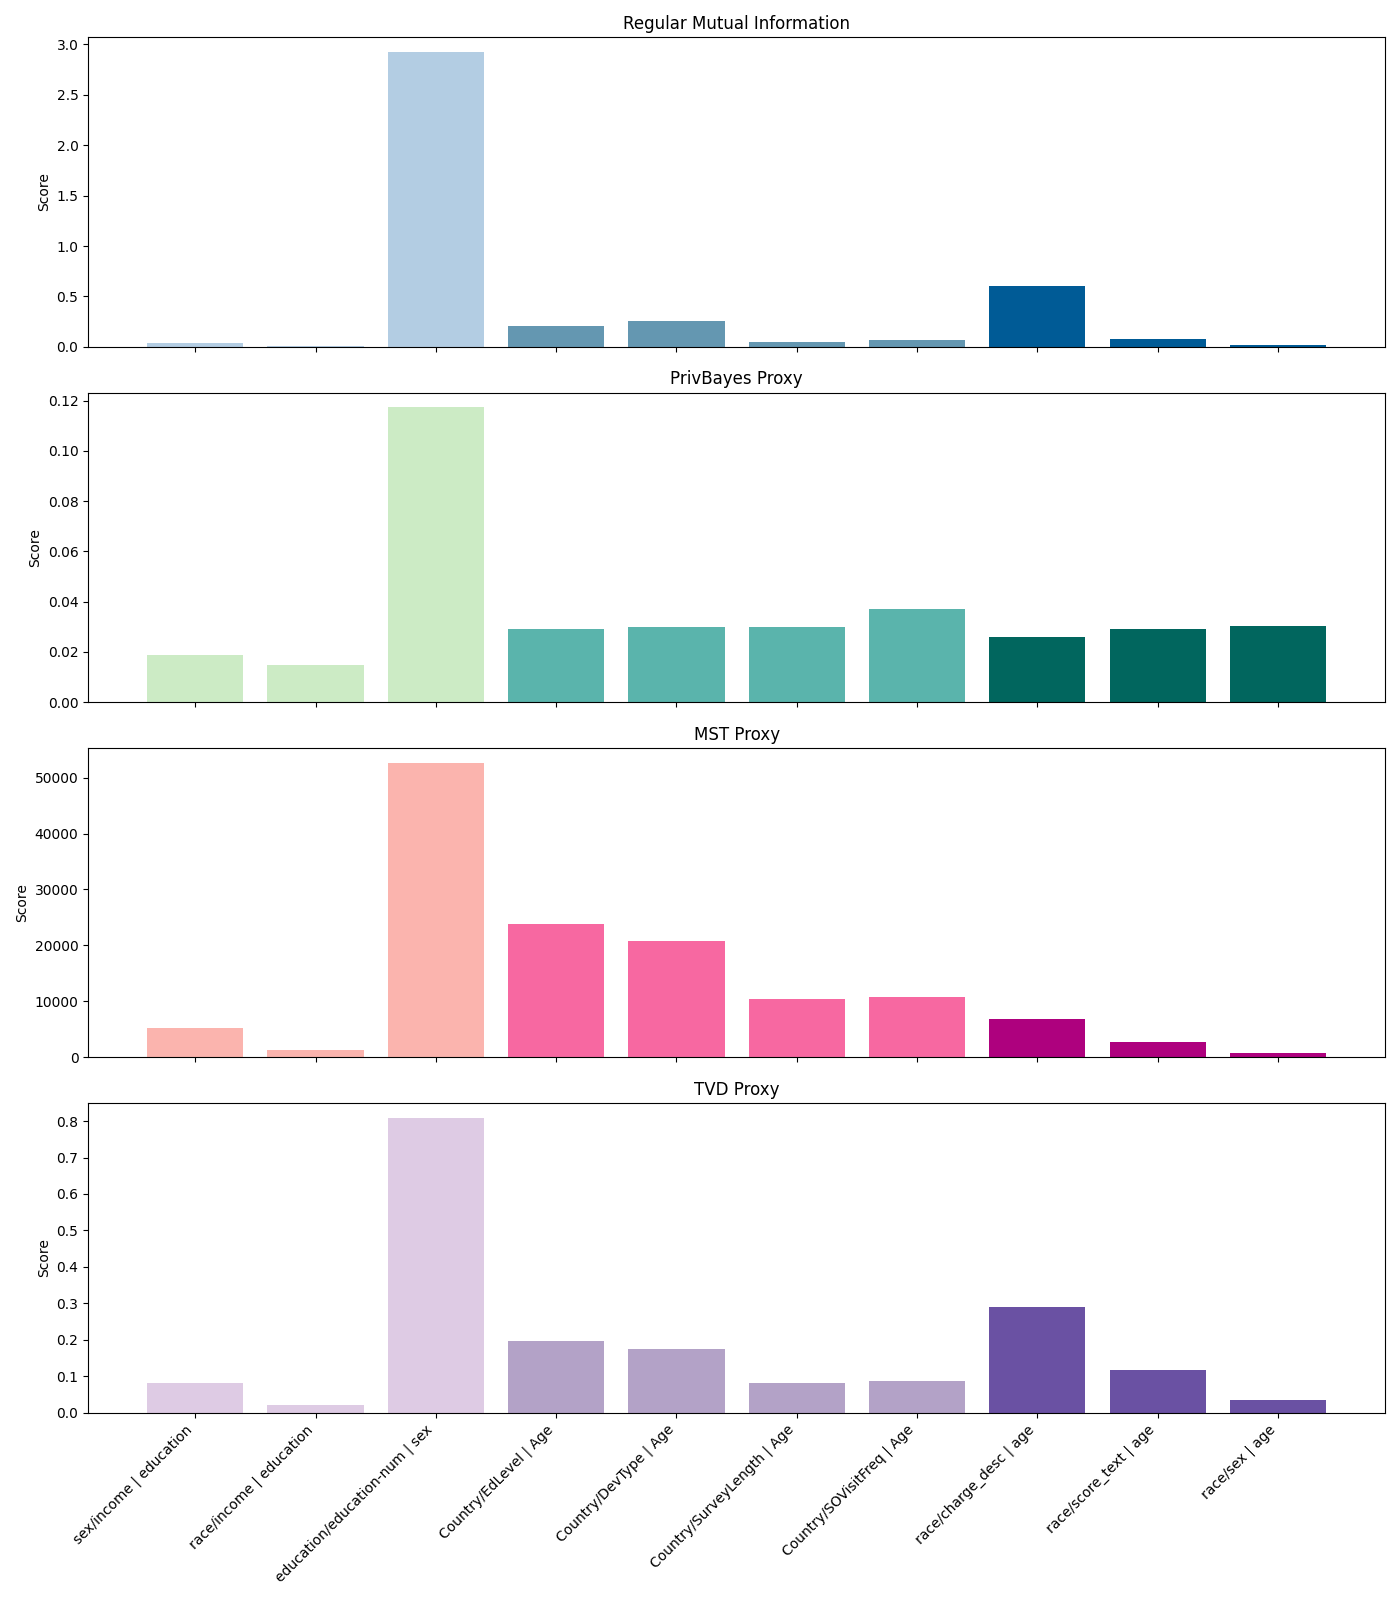
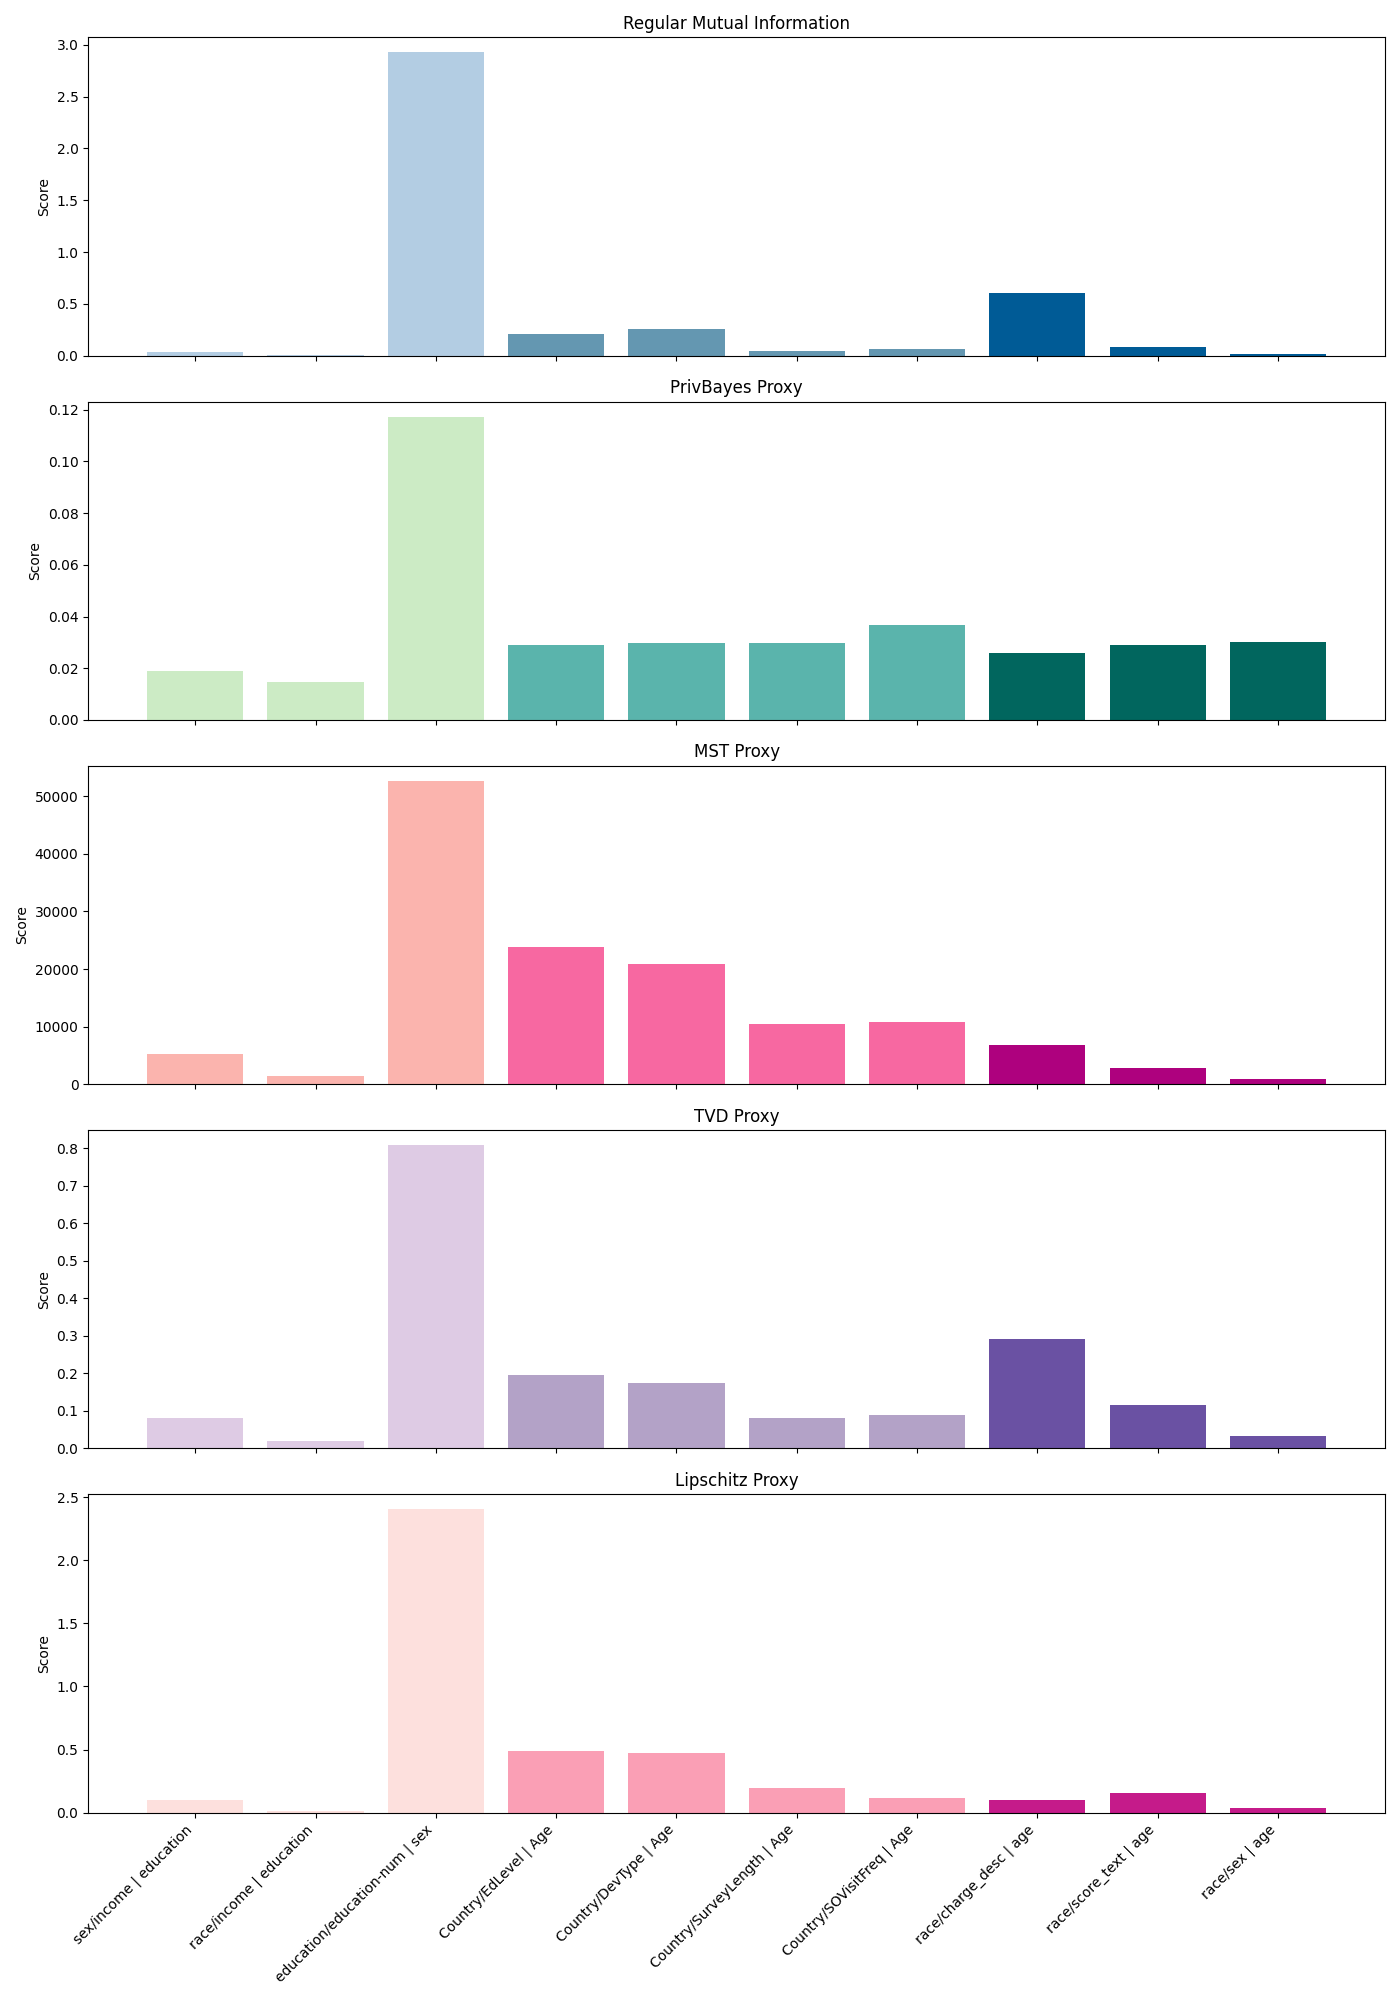
Added Lipschitz proxy

diff --git a/main.py b/main.py
@@ -2,6 +2,7 @@ import numpy as np
 from matplotlib import pyplot as plt
 
 from mutual_information import MutualInformation
+from proxy_mutual_information_lipshitz import ProxyMutualInformationLipschitz
 from proxy_mutual_information_nist_contest import ProxyMutualInformationNistContest
 from proxy_mutual_information_privbayes import ProxyMutualInformationPrivbayes
 from proxy_mutual_information_tvd import ProxyMutualInformationTVD
@@ -23,19 +24,18 @@ def calculate_mi_proxies(dataset, attributes, domain_paths, label):
         tvd_results.append(
             ProxyMutualInformationTVD(dataset).calculate(col1, col2, col3)
         )
+        lipschitz_results.append(
+            ProxyMutualInformationLipschitz(dataset).calculate(col1, col2, col3)
+        )
         print()
 
 
-def plot_mi_proxies(mi_results, privbayes_results, mst_results, tvd_results, labels, plot_name):
+def plot_mi_proxies(plot_name):
     """
-    Plots bar charts for Mutual Information and its three proxies: PrivBayes, MST, and TVD.
+    Plots bar charts for Mutual Information and its four proxies:
+    PrivBayes, MST, TVD, and Lipschitz-smoothed MI.
 
     Parameters:
-        mi_results (list of float): Scores from mutual information.
-        privbayes_results (list of float): Scores from PrivBayes proxy.
-        mst_results (list of float): Scores from MST proxy.
-        tvd_results (list of float): Scores from TVD proxy.
-        labels (list of string): Labels for the plots.
         plot_name (str): Filename to save the plot.
     """
 
@@ -43,18 +43,20 @@ def plot_mi_proxies(mi_results, privbayes_results, mst_results, tvd_results, lab
         'mi': ['#b3cde3'] * 3 + ['#6497b1'] * 4 + ['#005b96'] * 3,
         'privbayes': ['#ccebc5'] * 3 + ['#5ab4ac'] * 4 + ['#01665e'] * 3,
         'mst': ['#fbb4ae'] * 3 + ['#f768a1'] * 4 + ['#ae017e'] * 3,
-        'tvd': ['#decbe4'] * 3 + ['#b3a2c7'] * 4 + ['#6a51a3'] * 3
+        'tvd': ['#decbe4'] * 3 + ['#b3a2c7'] * 4 + ['#6a51a3'] * 3,
+        'lipschitz': ['#fde0dd'] * 3 + ['#fa9fb5'] * 4 + ['#c51b8a'] * 3
     }
 
     result_sets = [
         ("Regular Mutual Information", mi_results, grouped_colors['mi']),
         ("PrivBayes Proxy", privbayes_results, grouped_colors['privbayes']),
         ("MST Proxy", mst_results, grouped_colors['mst']),
-        ("TVD Proxy", tvd_results, grouped_colors['tvd'])
+        ("TVD Proxy", tvd_results, grouped_colors['tvd']),
+        ("Lipschitz Proxy", lipschitz_results, grouped_colors['lipschitz'])
     ]
 
     x = np.arange(len(labels))
-    fig, axes = plt.subplots(len(result_sets), 1, figsize=(14, 16), sharex=True)
+    fig, axes = plt.subplots(len(result_sets), 1, figsize=(14, 20), sharex=True)
 
     for ax, (title, results, colors) in zip(axes, result_sets):
         ax.bar(x, results, color=colors)
@@ -68,34 +70,31 @@ def plot_mi_proxies(mi_results, privbayes_results, mst_results, tvd_results, lab
     plt.show()
 
 
-if __name__ == "__main__":
-    # ----------------Unconditional MI Proxies----------------
+def unconditional_mi_proxies():
+    global mi_results, privbayes_results, mst_results, tvd_results, lipschitz_results, labels, adult_attributes, \
+        adult_domains, stackoverflow_attributes, stackoverflow_domains, compas_attributes, compas_domains
     mi_results = []
     privbayes_results = []
     mst_results = []
     tvd_results = []
-
+    lipschitz_results = []
     labels = [
         "sex/income", "race/income", "education/education-num",
         "Country/EdLevel", "Country/DevType", "Country/SurveyLength", "Country/SOVisitFreq",
         "race/charge_desc", "race/score_text", "race/sex"
     ]
-
     # Adult dataset
     adult_attributes = [
         ("sex", "income>50K"),
         ("race", "income>50K"),
         ("education", "education-num")
     ]
-
     adult_domains = [
         "data/domains/adult/adult-domain-sex-income.json",
         "data/domains/adult/adult-domain-race-income.json",
         "data/domains/adult/adult-domain-education-education-num.json"
     ]
-
     calculate_mi_proxies("data/adult.csv", adult_attributes, adult_domains, "Adult")
-
     # Stackoverflow dataset
     stackoverflow_attributes = [
         ("Country", "EdLevel"),
@@ -103,60 +102,53 @@ if __name__ == "__main__":
         ("Country", "SurveyLength"),
         ("Country", "SOVisitFreq")
     ]
-
     stackoverflow_domains = [
         "data/domains/stackoverflow/stackoverflow-domain-country-edlevel.json",
         "data/domains/stackoverflow/stackoverflow-domain-country-devtype.json",
         "data/domains/stackoverflow/stackoverflow-domain-country-surveylength.json",
         "data/domains/stackoverflow/stackoverflow-domain-country-sovisitfreq.json"
     ]
-
     calculate_mi_proxies("data/stackoverflow.csv", stackoverflow_attributes, stackoverflow_domains, "Stackoverflow")
-
     # Compas dataset
     compas_attributes = [
         ("race", "c_charge_desc"),
         ("race", "score_text"),
         ("race", "sex")
     ]
-
     compas_domains = [
         "data/domains/compas/compas-domain-race-c_charge_desc.json",
         "data/domains/compas/compas-domain-race-score_text.json",
         "data/domains/compas/compas-domain-race-sex.json"
     ]
-
     calculate_mi_proxies("data/compas-scores.csv", compas_attributes, compas_domains, "Compas")
-    plot_mi_proxies(mi_results, privbayes_results, mst_results, tvd_results, labels,
-                    "plots/plot_mutual_information_colored_by_dataset.png")
+    plot_mi_proxies("plots/plot_mutual_information_colored_by_dataset.png")
 
-    # ----------------Conditional MI Proxies----------------
+
+def conditional_mi_proxies():
+    global mi_results, privbayes_results, mst_results, tvd_results, lipschitz_results, labels, adult_attributes, \
+        adult_domains, stackoverflow_attributes, stackoverflow_domains, compas_attributes, compas_domains
     mi_results = []
     privbayes_results = []
     mst_results = []
     tvd_results = []
-
+    lipschitz_results = []
     labels = [
         "sex/income | education", "race/income | education", "education/education-num | sex",
         "Country/EdLevel | Age", "Country/DevType | Age", "Country/SurveyLength | Age", "Country/SOVisitFreq | Age",
         "race/charge_desc | age", "race/score_text | age", "race/sex | age"
     ]
-
     # Adult dataset
     adult_attributes = [
         ("sex", "income>50K", "education"),
         ("race", "income>50K", "education"),
         ("education", "education-num", "sex")
     ]
-
     adult_domains = [
         "data/domains/adult/adult-domain-sex-income-education.json",
         "data/domains/adult/adult-domain-race-income-education.json",
         "data/domains/adult/adult-domain-education-education-num-sex.json"
     ]
-
     calculate_mi_proxies("data/adult.csv", adult_attributes, adult_domains, "Adult")
-
     # Stackoverflow dataset
     stackoverflow_attributes = [
         ("Country", "EdLevel", "Age"),
@@ -164,34 +156,38 @@ if __name__ == "__main__":
         ("Country", "SurveyLength", "Age"),
         ("Country", "SOVisitFreq", "Age")
     ]
-
     stackoverflow_domains = [
         "data/domains/stackoverflow/stackoverflow-domain-country-edlevel-age.json",
         "data/domains/stackoverflow/stackoverflow-domain-country-devtype-age.json",
         "data/domains/stackoverflow/stackoverflow-domain-country-surveylength-age.json",
         "data/domains/stackoverflow/stackoverflow-domain-country-sovisitfreq-age.json"
     ]
-
     calculate_mi_proxies("data/stackoverflow.csv", stackoverflow_attributes, stackoverflow_domains, "Stackoverflow")
-
     # Compas dataset
     compas_attributes = [
         ("race", "c_charge_desc", "age"),
         ("race", "score_text", "age"),
         ("race", "sex", "age")
     ]
-
     compas_domains = [
         "data/domains/compas/compas-domain-race-c_charge_desc-age.json",
         "data/domains/compas/compas-domain-race-score_text-age.json",
         "data/domains/compas/compas-domain-race-sex-age.json"
     ]
-
     calculate_mi_proxies("data/compas-scores.csv", compas_attributes, compas_domains, "Compas")
-    plot_mi_proxies(mi_results, privbayes_results, mst_results, tvd_results, labels,
-                    "plots/plot_conditional_mutual_information_colored_by_dataset.png")
+    plot_mi_proxies("plots/plot_conditional_mutual_information_colored_by_dataset.png")
+
+
+if __name__ == "__main__":
+    # ----------------Unconditional MI Proxies----------------
+    unconditional_mi_proxies()
+
+    # ----------------Conditional MI Proxies----------------
+    conditional_mi_proxies()
 
     # ----------------MaxSAT Repair----------------
     maxsat_results = []
-    maxsat_results.append(ProxyRepairMaxSat('data/adult.csv').calculate("sex", "income>50K", "education"))
-    maxsat_results.append(ProxyRepairMaxSat('data/adult.csv').calculate("race", "income>50K", "education"))
+    # maxsat_results.append(ProxyRepairMaxSat('data/adult.csv').calculate("sex", "income>50K", "education"))
+    # maxsat_results.append(ProxyRepairMaxSat('data/adult.csv').calculate("race", "income>50K", "education"))
+
+    maxsat_results.append(ProxyRepairMaxSat('data/toy_example.csv').calculate("A", "B", "C"))

diff --git a/proxy_mutual_information_lipshitz.py b/proxy_mutual_information_lipshitz.py
@@ -1,0 +1,104 @@
+import math
+import time
+import numpy as np
+import pandas as pd
+from sklearn.preprocessing import LabelEncoder
+
+
+class ProxyMutualInformationLipschitz:
+    """
+    Computes a smoothed proxy for mutual or conditional mutual information using
+    Lipschitz-smoothed joint distributions.
+    For unconditional MI: I(S;O)
+    For conditional MI: I(S;O|A)
+    """
+
+    def __init__(self, datapath):
+        """
+        Initialize the estimator with a dataset.
+
+        Parameters:
+        -----------
+        datapath : str
+            Path to the CSV dataset file.
+        """
+        self.dataset = pd.read_csv(datapath)
+
+    def calculate(self, s_col, o_col, a_col=None, alpha=1.0):
+        """
+        Calculate Lipschitz-smoothed mutual information I(S;O) or conditional MI I(S;O|A).
+
+        Parameters:
+        -----------
+        s_col : str
+            Sensitive attribute (S).
+        o_col : str
+            Outcome attribute (O).
+        a_col : str, optional
+            Attribute to condition on (A).
+        alpha : float
+            Smoothing parameter α (e.g., 1, log(n), sqrt(n), n).
+
+        Returns:
+        --------
+        float : Approximated (conditional) mutual information score.
+        """
+        start_time = time.time()
+        self.dataset.replace(["NA", "N/A", ""], pd.NA, inplace=True)
+
+        columns = [s_col, o_col] + ([a_col] if a_col else [])
+        self.dataset.dropna(inplace=True, subset=columns)
+
+        # Encode columns
+        s = LabelEncoder().fit_transform(self.dataset[s_col])
+        o = LabelEncoder().fit_transform(self.dataset[o_col])
+        if a_col:
+            a = LabelEncoder().fit_transform(self.dataset[a_col])
+        n = len(s)
+
+        if not a_col:
+            # Unconditional case: I(S;O)
+            num_s, num_o = np.max(s) + 1, np.max(o) + 1
+            joint = np.zeros((num_s, num_o))
+            for si, oi in zip(s, o):
+                joint[si, oi] += 1
+
+            smoothed_joint = (joint + alpha) / (n + alpha * num_s * num_o)
+            p_s = smoothed_joint.sum(axis=1, keepdims=True)
+            p_o = smoothed_joint.sum(axis=0, keepdims=True)
+            ratio = np.divide(smoothed_joint, p_s @ p_o, out=np.ones_like(smoothed_joint), where=smoothed_joint > 0)
+            mi = np.sum(smoothed_joint * np.log2(ratio))
+
+        else:
+            # Conditional case: I(S;O | A)
+            num_s, num_o, num_a = np.max(s) + 1, np.max(o) + 1, np.max(a) + 1
+            total_mi = 0.0
+
+            for a_val in range(num_a):
+                indices = a == a_val
+                count = np.sum(indices)
+                if count == 0:
+                    continue
+
+                sub_s = s[indices]
+                sub_o = o[indices]
+                joint = np.zeros((num_s, num_o))
+                for si, oi in zip(sub_s, sub_o):
+                    joint[si, oi] += 1
+
+                smoothed_joint = (joint + alpha) / (count + alpha * num_s * num_o)
+                p_s = smoothed_joint.sum(axis=1, keepdims=True)
+                p_o = smoothed_joint.sum(axis=0, keepdims=True)
+                ratio = np.divide(smoothed_joint, p_s @ p_o, out=np.ones_like(smoothed_joint), where=smoothed_joint > 0)
+                total_mi += (count / n) * np.sum(smoothed_joint * np.log2(ratio))
+
+            mi = total_mi
+            scaled_mi = np.log1p(mi) / np.log1p(1) if mi > 0 else 0  # base scaling
+            scaled_mi = scaled_mi * (1 + (1 / (1 + mi)))  # compress larger values
+            mi = scaled_mi
+
+        elapsed_time = time.time() - start_time
+        print(f"Lipschitz MI (α={alpha}): Proxy Mutual Information between '{s_col}' and '{o_col}'"
+              + (f" conditioned on '{a_col}'" if a_col else "")
+              + f": {mi:.4f}. Calculation took {elapsed_time:.3f} seconds.")
+        return round(mi, 4)

diff --git a/proxy_mutual_information_nist_contest.py b/proxy_mutual_information_nist_contest.py
@@ -45,12 +45,11 @@ class ProxyMutualInformationNistContest:
 
         if a_col is None:
             mi = run_mst_unconditional(self.datapath, domain, s_col, o_col)
-            print(f"NIST MST: Proxy Mutual Information between '{s_col}' and '{o_col}': {mi:.4f}.", end=" ")
         else:
             mi = run_mst_conditional(self.datapath, domain, s_col, o_col, a_col)
-            print(f"NIST MST: Proxy Conditional Mutual Information between '{s_col}' and '{o_col}' conditioned on "
-                  f"'{a_col}': {mi:.4f}.", end=" ")
 
         elapsed_time = time.time() - start_time
-        print(f"Calculation took {elapsed_time:.3f} seconds.")
+        print(f"NIST MST: Proxy Conditional Mutual Information between '{s_col}' and '{o_col}'" +
+              (f" conditioned on '{a_col}'" if a_col else "") + f": {mi:.4f}. Calculation took "
+                                                                f"{elapsed_time:.3f} seconds.")
         return round(mi, 4)
